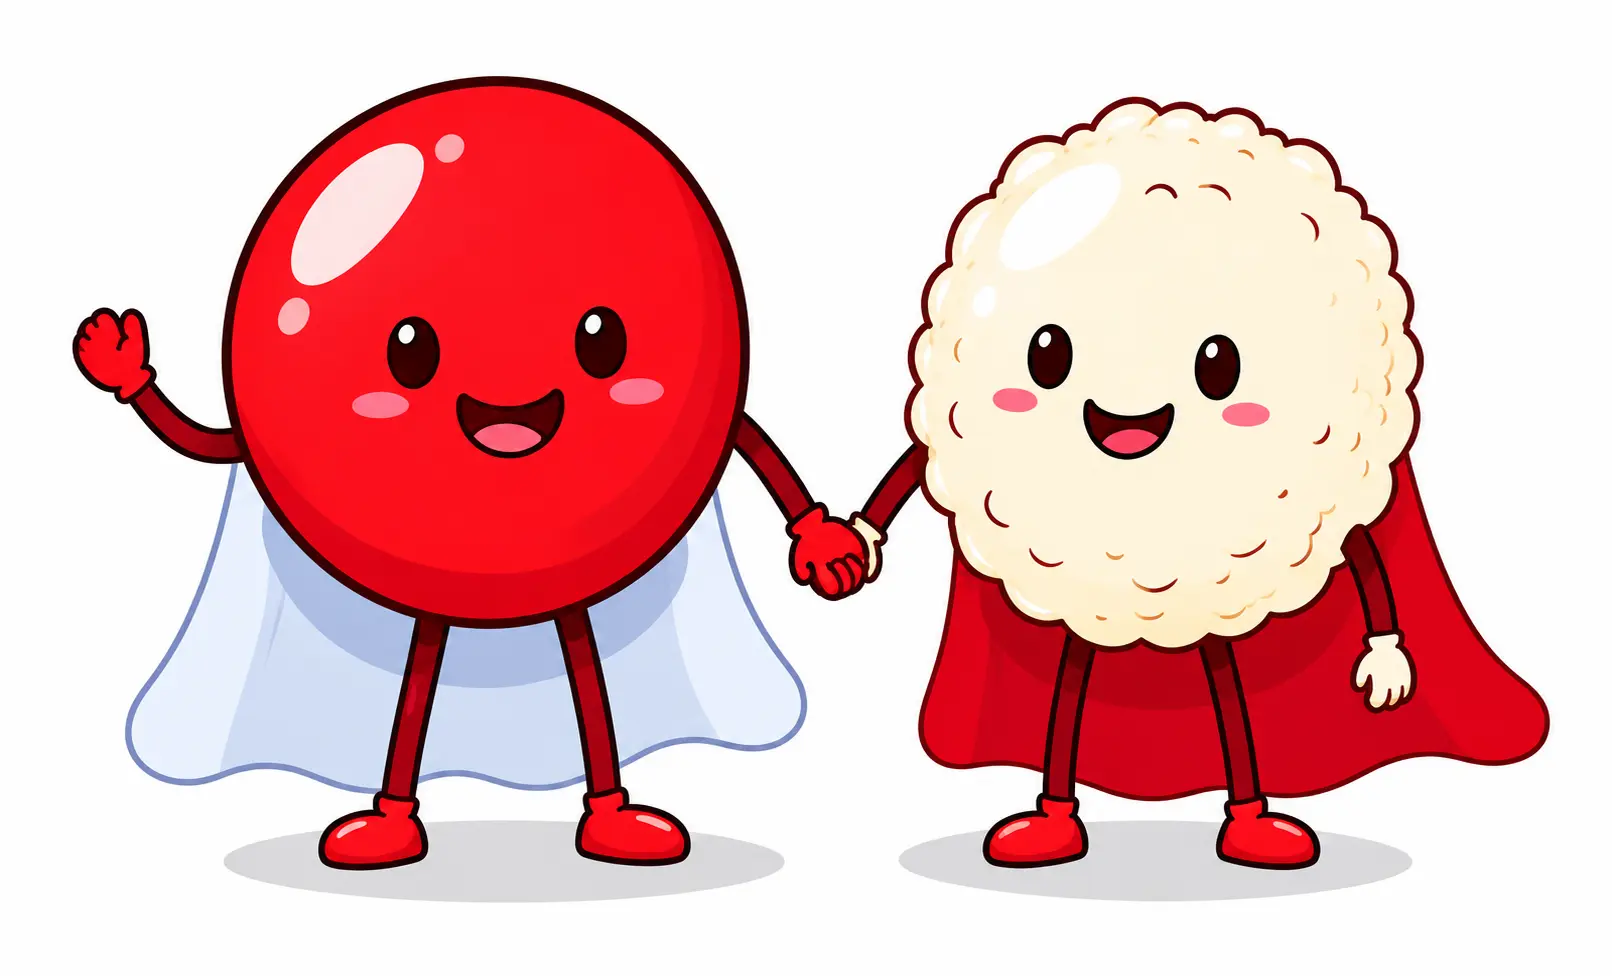
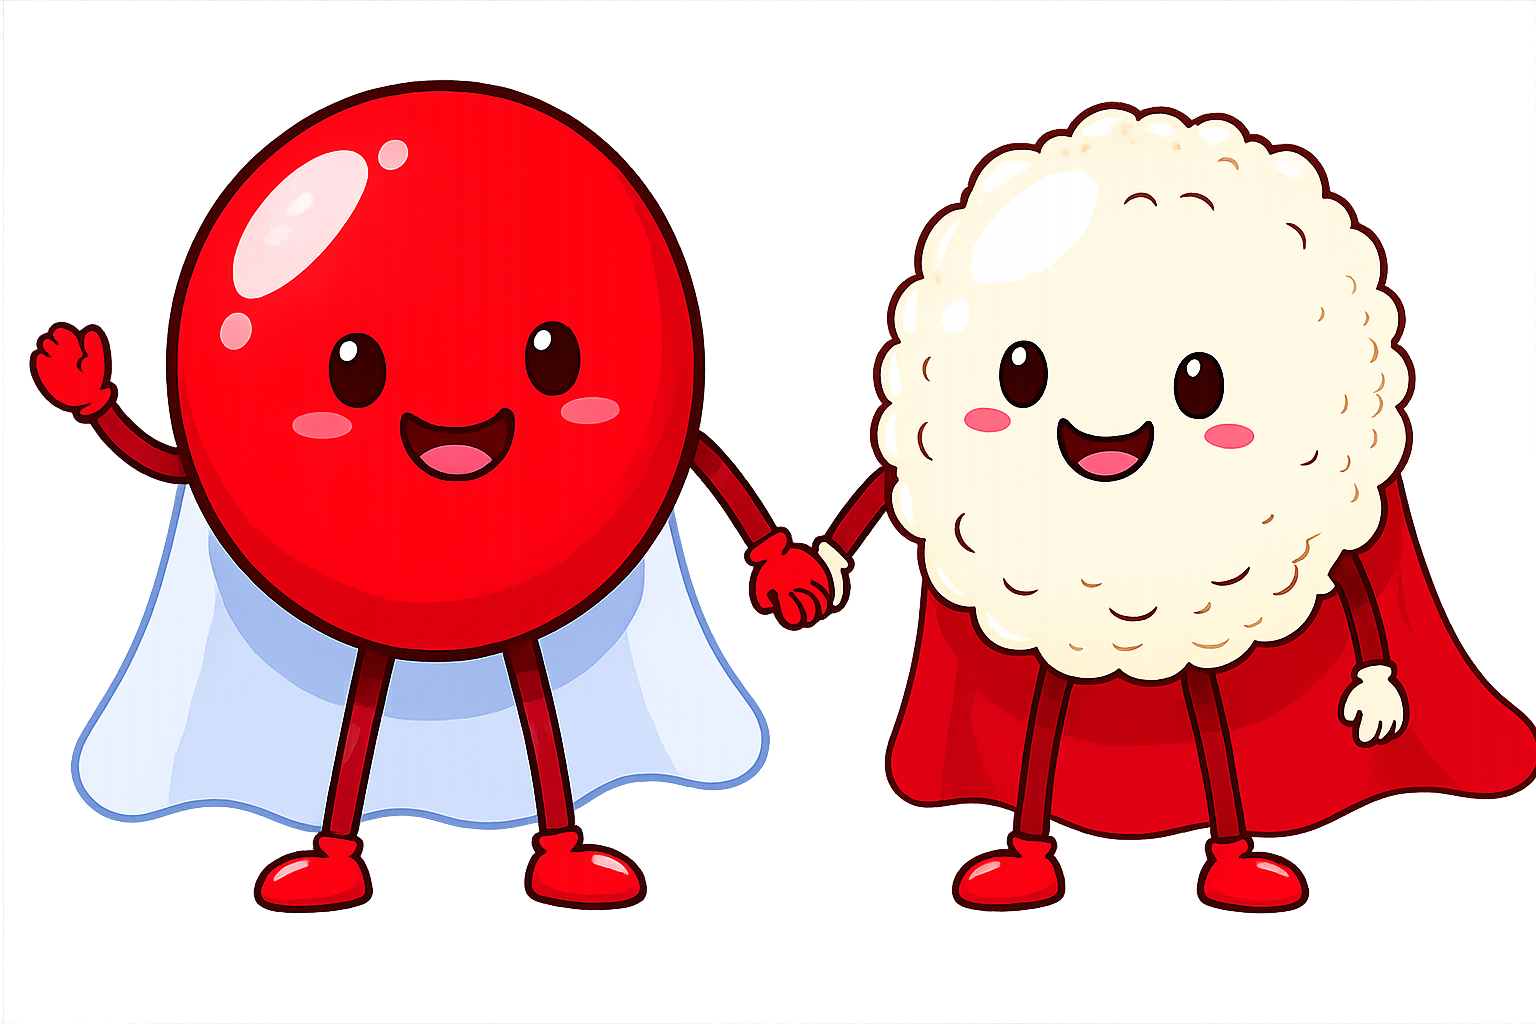
modification home

Changed region(s): [[0.0, 0.0615, 1.0, 0.9221], [0.3125, 0.5533, 0.3438, 0.584]]

diff --git a/resources/js/components/public/Podium.vue b/resources/js/components/public/Podium.vue
@@ -56,7 +56,7 @@ function selectPrizeType(type: PrizeType) {
 <template>
     <section class="px-6 py-8 lg:px-12 lg:py-16">
         <div class="mx-auto max-w-6xl">
-            <h2 class="text-display text-martinique-950">Le podium du Prix du Coeur</h2>
+            <h2 class="text-display text-martinique-950">Le podium du Prix du Cœur</h2>
 
             <!-- Tabs type de prix -->
             <div class="mt-8 flex flex-wrap gap-2 border-b border-martinique-200">

diff --git a/resources/views/public/home.blade.php b/resources/views/public/home.blade.php
@@ -11,9 +11,9 @@
         <div class="mx-auto max-w-6xl">
             <div class="flex flex-col items-center gap-8 lg:flex-row lg:items-start lg:justify-between lg:gap-12">
                 <div class="max-w-2xl">
-                    <h2 class="text-display text-martinique-950">Le Prix du Coeur</h2>
+                    <h2 class="text-display text-martinique-950">Le Prix du Cœur</h2>
                     <p class="mt-10 text-body text-martinique-900">
-                        Chaque année, le Prix du Coeur met à l'honneur les entreprises de la région
+                        Chaque année, le Prix du Cœur met à l'honneur les entreprises de la région
                         qui s'engagent activement dans le don du sang aux côtés du Centre de Transfusion
                         Sanguine des HUG. À travers les collectes organisées sur leur lieu de travail,
                         salariés et employeurs se rassemblent autour d'un même geste : sauver des vies.
@@ -61,7 +61,7 @@
             <div class="lg:col-start-1 lg:row-start-1">
                     <h2 class="text-display text-martinique-950">Mettre en lumière les entreprises engagées</h2>
                     <p class="mt-6 text-body text-martinique-950">
-                        Le Prix du Coeur célèbre trois engagements distincts. Chaque récompense honore une
+                        Le Prix du Cœur célèbre trois engagements distincts. Chaque récompense honore une
                         manière différente de contribuer au don du sang : la générosité des dons, l'effort de
                         mobilisation, et l'impact humain de la démarche.
                     </p>
